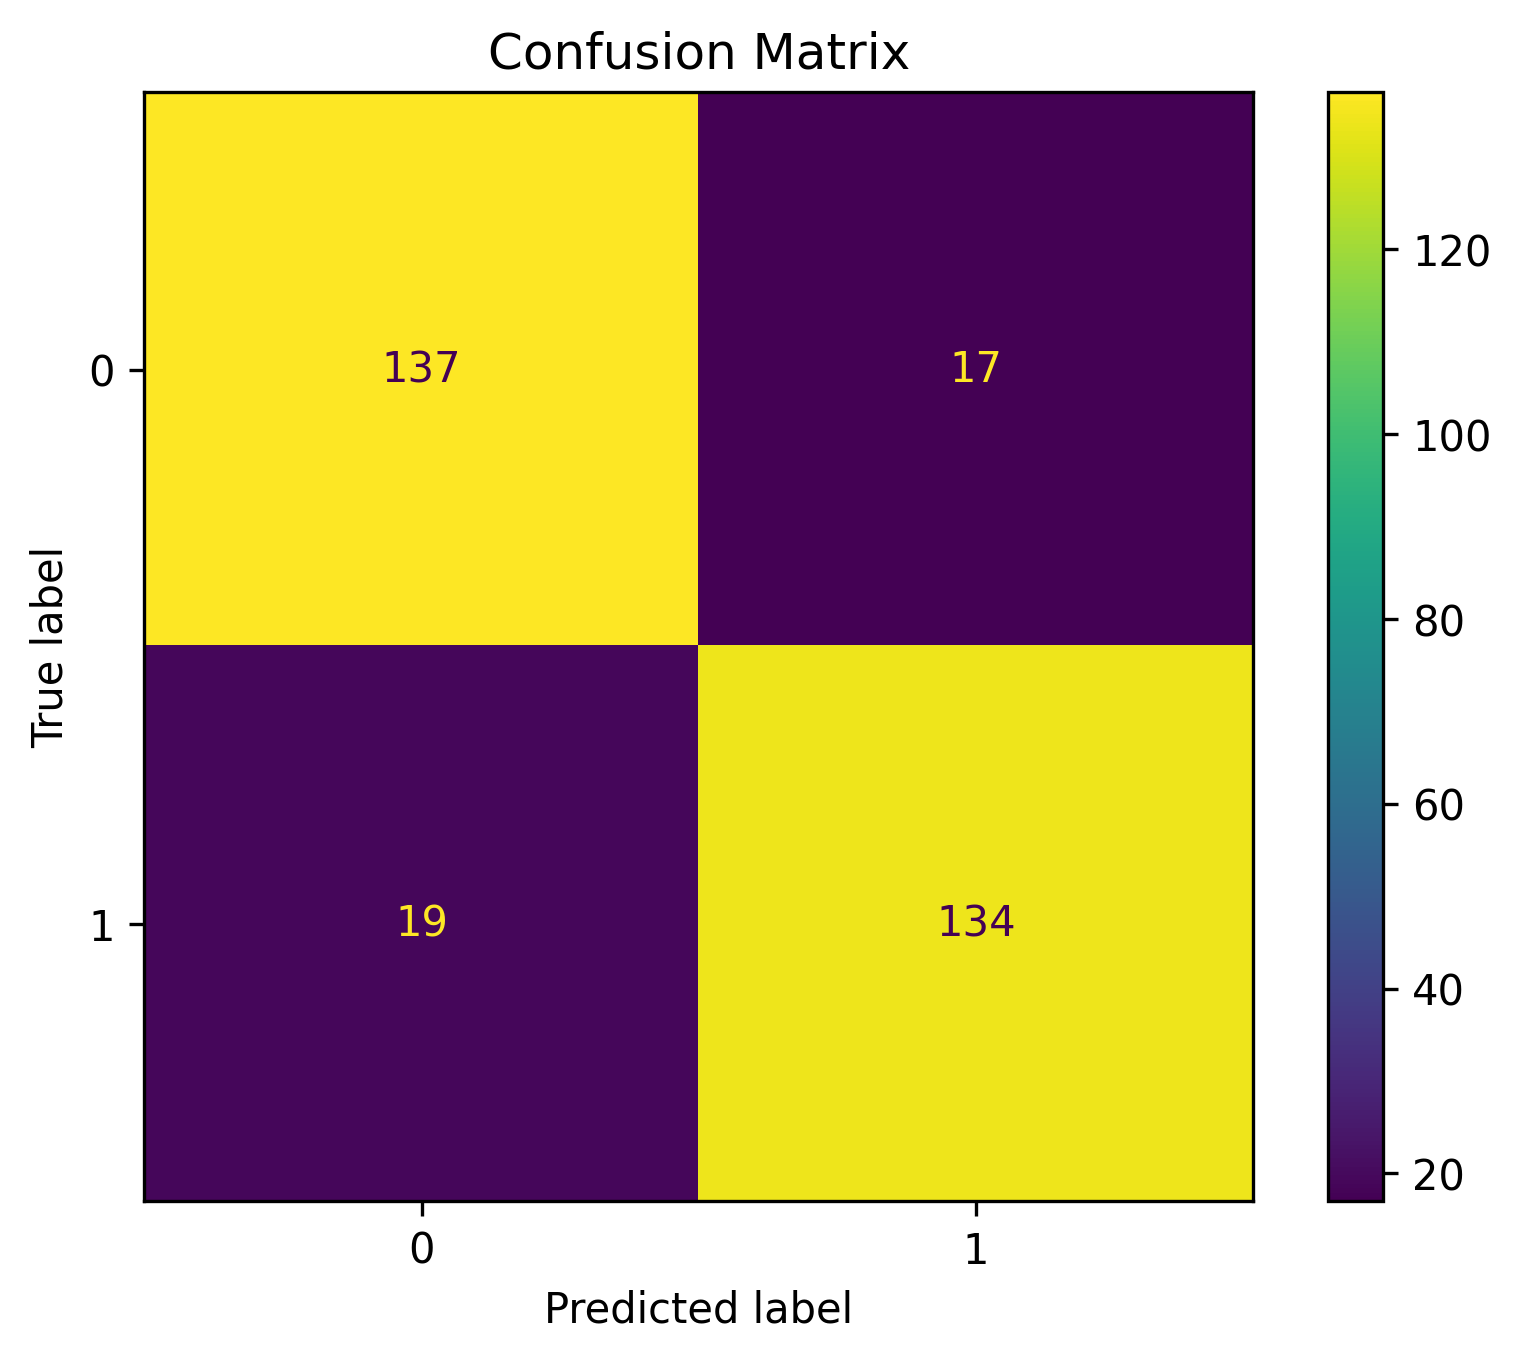
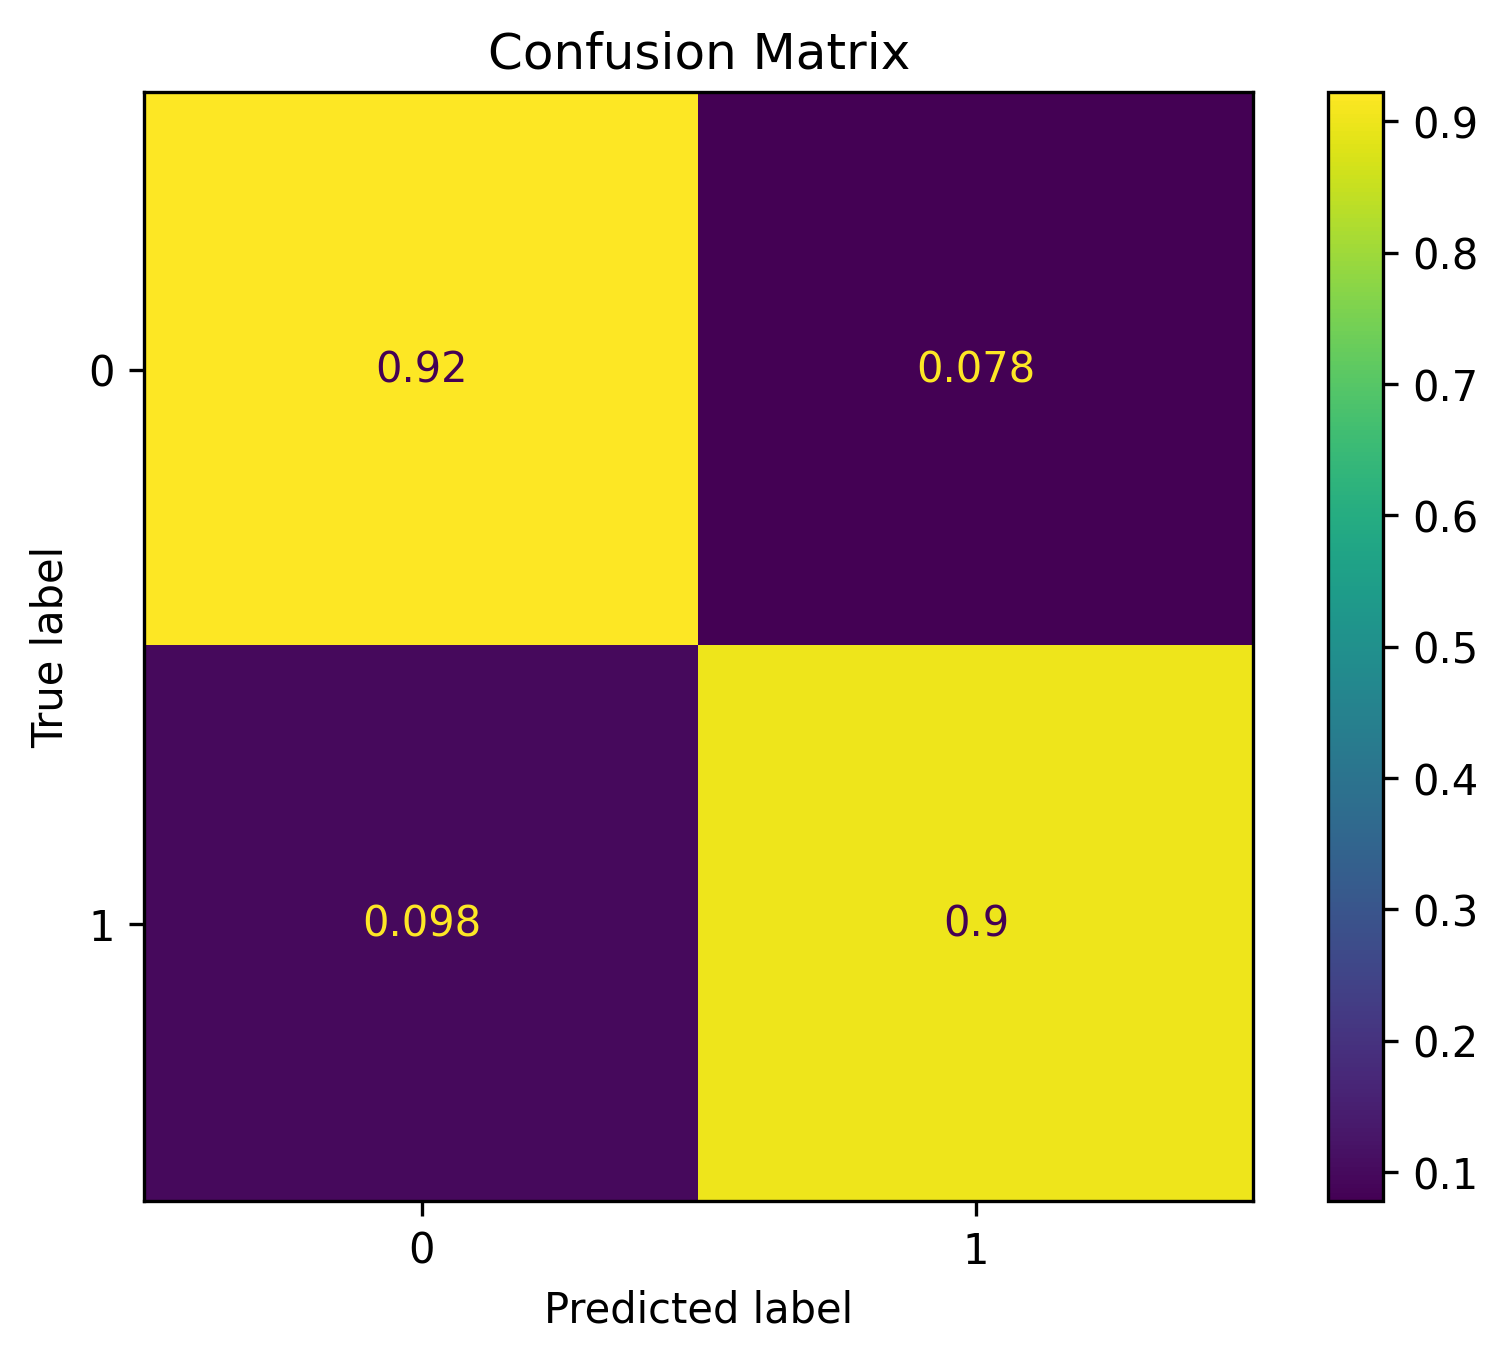
add results for convLSTM and generate the ROC for the fulle 3s sequences

diff --git a/src/deep_learning.py b/src/deep_learning.py
@@ -2,7 +2,7 @@ import os
 import datetime as dt
 import collections
 from pathlib import Path
-from typing import Tuple
+from typing import Literal, Tuple
 
 import numpy as np
 import scipy.io
@@ -142,7 +142,9 @@ def evaluate_classifier(
 
 def majority_vote_over_imagery_sequence(
     y_pred_crops: np.ndarray,
+    y_pred_prob_crops: np.ndarray,
     factor: int = 3,
+    agg: Literal["mean", "max"] = "mean",
     ) -> np.ndarray:
 
     y_flat = y_pred_crops.flatten()
@@ -160,4 +162,33 @@ def majority_vote_over_imagery_sequence(
     print(f"Number of trial-level labels: {len(y_trial_pred)}")
 
     return y_trial_pred
+
+
+def aggregate_crops_to_trials_from_probs(
+    y_pred_prob_crops: np.ndarray,
+    factor: int = 3,
+    threshold: float = 0.5,
+    agg: str = "mean",  
+    ) -> Tuple[np.ndarray, np.ndarray]:
+
+    probs_flat = np.asarray(y_pred_prob_crops).ravel()
+    assert len(probs_flat) % factor == 0, "Number of crops must be a multiple of factor."
+
+    n_trials = len(probs_flat) // factor
+    probs_grouped = probs_flat.reshape(n_trials, factor)
+
+    if agg == "mean":
+        trial_probs = probs_grouped.mean(axis=1)
+    elif agg == "max":
+        trial_probs = probs_grouped.max(axis=1)
+    else:
+        raise ValueError(f"Unknown aggregation method: {agg!r}")
+
+    y_trial_pred = (trial_probs >= threshold).astype(int)
+
+    print(f"Number of crops: {len(probs_flat)}")
+    print(f"Number of trials: {n_trials}")
+
+    return y_trial_pred, trial_probs
+
 

diff --git a/src/utils.py b/src/utils.py
@@ -66,7 +66,7 @@ def save_linear_results(
     plot_confusion_matrix(
         y_true,
         y_pred,
-        normalize=False,
+        normalize=True,
         class_labels=class_labels,
         save_path=cm_path,
         show=False,
